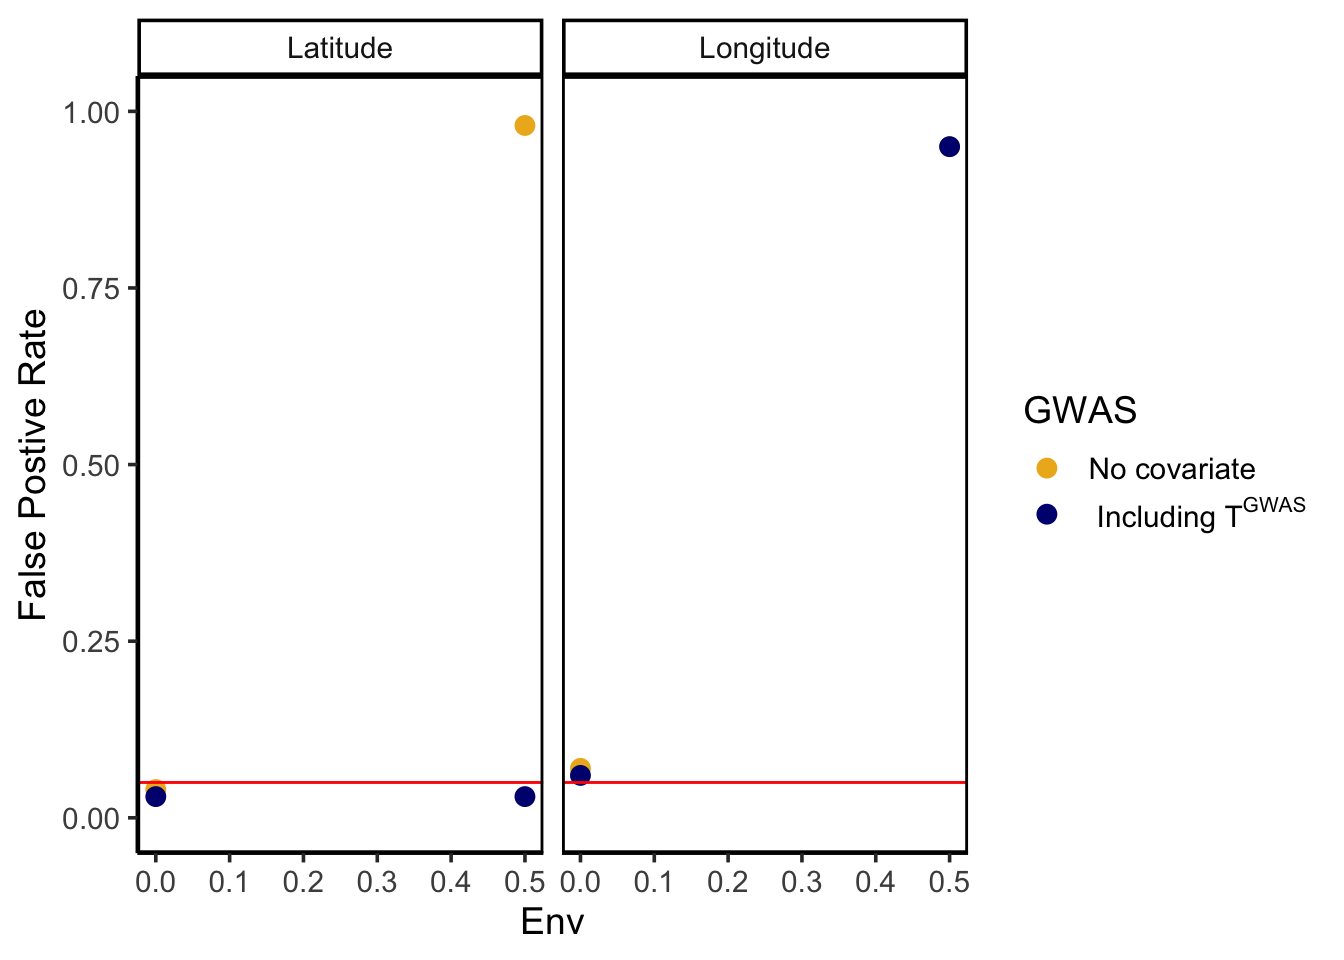
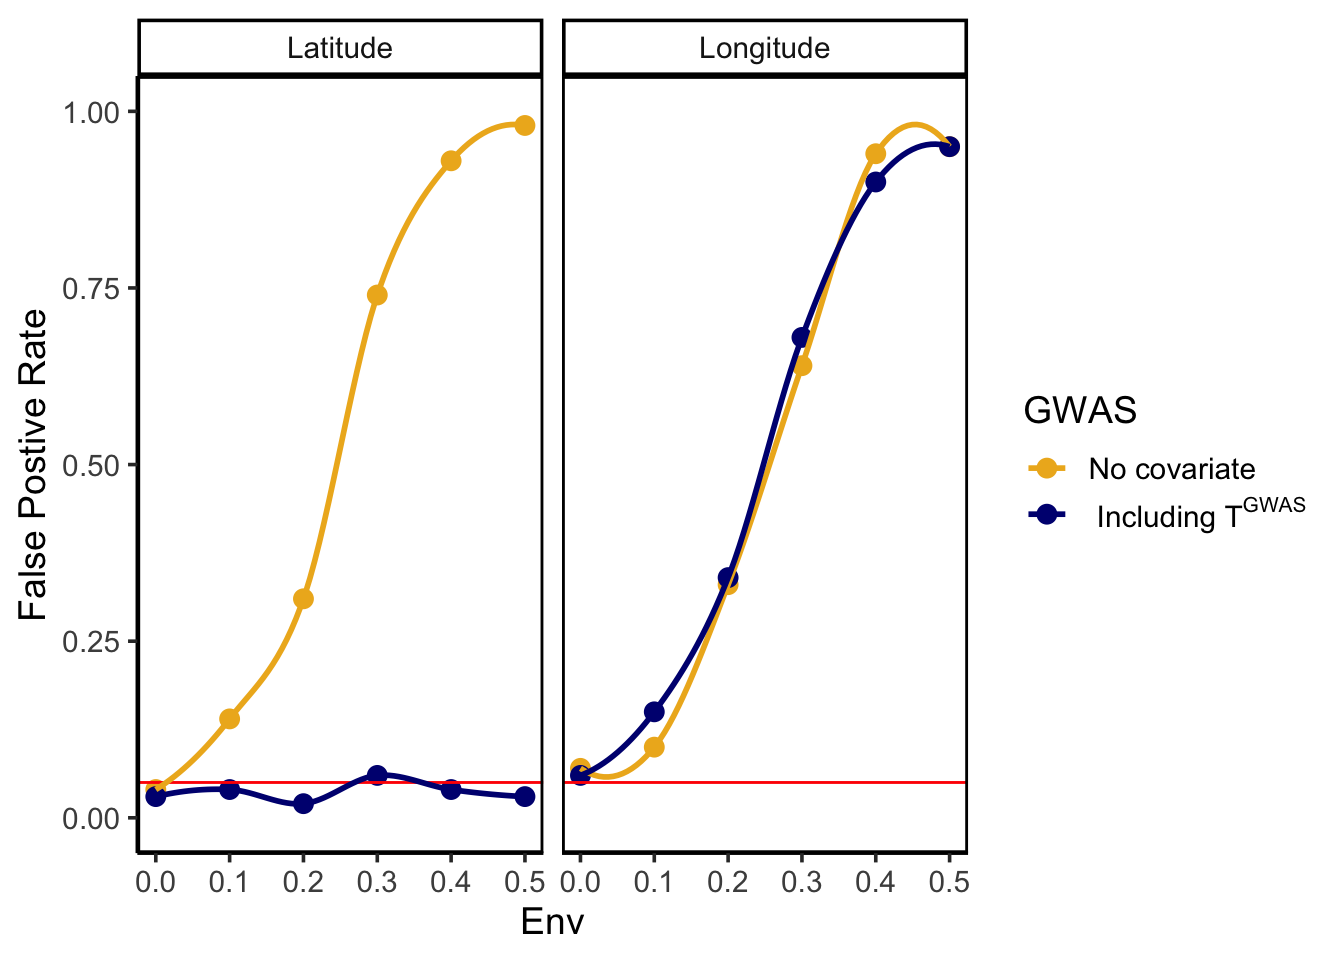
Build site.

diff --git a/docs/Simulations_methods.html b/docs/Simulations_methods.html
@@ -381,7 +381,7 @@ div.tocify {
 <div class="tab-content">
 <div id="summary" class="tab-pane fade in active">
 <p>
-<strong>Last updated:</strong> 2021-08-30
+<strong>Last updated:</strong> 2021-08-31
 </p>
 <p>
 <strong>Checks:</strong> <span class="glyphicon glyphicon-ok text-success" aria-hidden="true"></span> 6 <span class="glyphicon glyphicon-exclamation-sign text-danger" aria-hidden="true"></span> 1
@@ -496,16 +496,16 @@ relative
 <div class="panel panel-default">
 <div class="panel-heading">
 <p class="panel-title">
-<a data-toggle="collapse" data-parent="#workflowr-checks" href="#strongRepositoryversionstrongahrefhttpsgithubcomjgblancpolygenicadaptationstratificationtree5c025aed3130822861a267fc7ec146f885e53d23targetblank5c025aea"> <span class="glyphicon glyphicon-ok text-success" aria-hidden="true"></span> <strong>Repository version:</strong> <a href="https://github.com/jgblanc/polygenic_adaptation_stratification/tree/5c025aed3130822861a267fc7ec146f885e53d23" target="_blank">5c025ae</a> </a>
+<a data-toggle="collapse" data-parent="#workflowr-checks" href="#strongRepositoryversionstrongahrefhttpsgithubcomjgblancpolygenicadaptationstratificationtreed29b398e0a713d1cfb349a8ad2b620b510ba5c6btargetblankd29b398a"> <span class="glyphicon glyphicon-ok text-success" aria-hidden="true"></span> <strong>Repository version:</strong> <a href="https://github.com/jgblanc/polygenic_adaptation_stratification/tree/d29b398e0a713d1cfb349a8ad2b620b510ba5c6b" target="_blank">d29b398</a> </a>
 </p>
 </div>
[2 lines of base64/hex data omitted]
 <div class="panel-body">
 <p>
 Great! You are using Git for version control. Tracking code development and connecting the code version to the results is critical for reproducibility.
 </p>
 <p>
-The results in this page were generated with repository version <a href="https://github.com/jgblanc/polygenic_adaptation_stratification/tree/5c025aed3130822861a267fc7ec146f885e53d23" target="_blank">5c025ae</a>. See the <em>Past versions</em> tab to see a history of the changes made to the R Markdown and HTML files.
+The results in this page were generated with repository version <a href="https://github.com/jgblanc/polygenic_adaptation_stratification/tree/d29b398e0a713d1cfb349a8ad2b620b510ba5c6b" target="_blank">d29b398</a>. See the <em>Past versions</em> tab to see a history of the changes made to the R Markdown and HTML files.
 </p>
 <p>
 Note that you need to be careful to ensure that all relevant files for the analysis have been committed to Git prior to generating the results (you can use <code>wflow_publish</code> or <code>wflow_git_commit</code>). workflowr only checks the R Markdown file, but you know if there are other scripts or data files that it depends on. Below is the status of the Git repository when the results were generated:
@@ -612,6 +612,40 @@ Message
 </tr>
 </thead>
 <tbody>
+<tr>
+<td>
+Rmd
+</td>
+<td>
+<a href="https://github.com/jgblanc/polygenic_adaptation_stratification/blob/d29b398e0a713d1cfb349a8ad2b620b510ba5c6b/analysis/Simulations_methods.Rmd" target="_blank">d29b398</a>
+</td>
+<td>
+jgblanc
+</td>
+<td>
+2021-08-31
+</td>
+<td>
+added more data points
+</td>
+</tr>
+<tr>
+<td>
+html
+</td>
+<td>
+<a href="https://rawcdn.githack.com/jgblanc/polygenic_adaptation_stratification/f973a407d7eec92192af269ad032ff4573a16c54/docs/Simulations_methods.html" target="_blank">f973a40</a>
+</td>
+<td>
+jgblanc
+</td>
+<td>
+2021-08-30
+</td>
+<td>
+Build site.
+</td>
+</tr>
 <tr>
 <td>
 Rmd
@@ -891,6 +925,17 @@ Date
 <tbody>
 <tr>
 <td>
+<a href="https://github.com/jgblanc/polygenic_adaptation_stratification/blob/f973a407d7eec92192af269ad032ff4573a16c54/docs/figure/Simulations_methods.Rmd/unnamed-chunk-1-1.png" target="_blank">f973a40</a>
+</td>
+<td>
+jgblanc
+</td>
+<td>
+2021-08-30
+</td>
+</tr>
+<tr>
+<td>
 <a href="https://github.com/jgblanc/polygenic_adaptation_stratification/blob/bbf15a3964a93fbca7feedb44bb11ac396884faa/docs/figure/Simulations_methods.Rmd/unnamed-chunk-1-1.png" target="_blank">bbf15a3</a>
 </td>
 <td>
@@ -1035,6 +1080,17 @@ Date
 <tbody>
 <tr>
 <td>
+<a href="https://github.com/jgblanc/polygenic_adaptation_stratification/blob/f973a407d7eec92192af269ad032ff4573a16c54/docs/figure/Simulations_methods.Rmd/unnamed-chunk-2-1.png" target="_blank">f973a40</a>
+</td>
+<td>
+jgblanc
+</td>
+<td>
+2021-08-30
+</td>
+</tr>
+<tr>
+<td>
 <a href="https://github.com/jgblanc/polygenic_adaptation_stratification/blob/35227cccc214f2dcdf39fa20bde86dbbab86e954/docs/figure/Simulations_methods.Rmd/unnamed-chunk-2-1.png" target="_blank">35227cc</a>
 </td>
 <td>
@@ -1049,6 +1105,43 @@ jgblanc
 </div>
 </div>
 <p><img src="figure/Simulations_methods.Rmd/unnamed-chunk-3-1.png" width="672" style="display: block; margin: auto;" /></p>
+<p>
+<button type="button" class="btn btn-default btn-xs btn-workflowr btn-workflowr-fig" data-toggle="collapse" data-target="#fig-unnamed-chunk-3-1">
+Past versions of unnamed-chunk-3-1.png
+</button>
+</p>
+<div id="fig-unnamed-chunk-3-1" class="collapse">
+<div class="table-responsive">
+<table class="table table-condensed table-hover">
+<thead>
+<tr>
+<th>
+Version
+</th>
+<th>
+Author
+</th>
+<th>
+Date
+</th>
+</tr>
+</thead>
+<tbody>
+<tr>
+<td>
+<a href="https://github.com/jgblanc/polygenic_adaptation_stratification/blob/f973a407d7eec92192af269ad032ff4573a16c54/docs/figure/Simulations_methods.Rmd/unnamed-chunk-3-1.png" target="_blank">f973a40</a>
+</td>
+<td>
+jgblanc
+</td>
+<td>
+2021-08-30
+</td>
+</tr>
+</tbody>
+</table>
+</div>
+</div>
 </div>
 <div id="stratdlat" class="section level4">
 <h4>stratD/Lat</h4>
@@ -1081,6 +1174,17 @@ Date
 </tr>
 </thead>
 <tbody>
+<tr>
+<td>
+<a href="https://github.com/jgblanc/polygenic_adaptation_stratification/blob/f973a407d7eec92192af269ad032ff4573a16c54/docs/figure/Simulations_methods.Rmd/unnamed-chunk-4-1.png" target="_blank">f973a40</a>
+</td>
+<td>
+jgblanc
+</td>
+<td>
+2021-08-30
+</td>
+</tr>
 <tr>
 <td>
 <a href="https://github.com/jgblanc/polygenic_adaptation_stratification/blob/35227cccc214f2dcdf39fa20bde86dbbab86e954/docs/figure/Simulations_methods.Rmd/unnamed-chunk-4-1.png" target="_blank">35227cc</a>
@@ -1119,6 +1223,17 @@ Date
 </tr>
 </thead>
 <tbody>
+<tr>
+<td>
+<a href="https://github.com/jgblanc/polygenic_adaptation_stratification/blob/f973a407d7eec92192af269ad032ff4573a16c54/docs/figure/Simulations_methods.Rmd/unnamed-chunk-5-1.png" target="_blank">f973a40</a>
+</td>
+<td>
+jgblanc
+</td>
+<td>
+2021-08-30
+</td>
+</tr>
 <tr>
 <td>
 <a href="https://github.com/jgblanc/polygenic_adaptation_stratification/blob/35227cccc214f2dcdf39fa20bde86dbbab86e954/docs/figure/Simulations_methods.Rmd/unnamed-chunk-5-1.png" target="_blank">35227cc</a>
